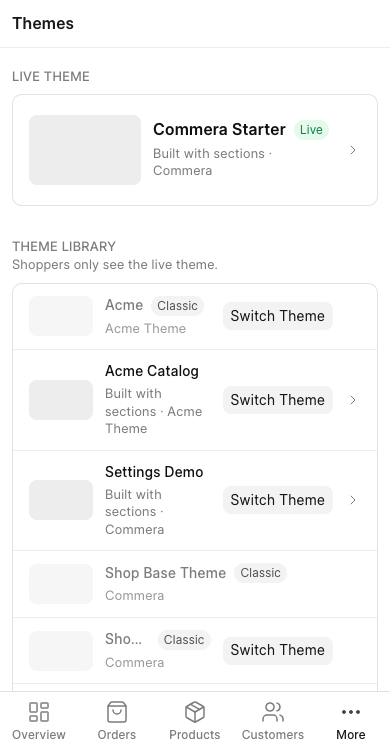
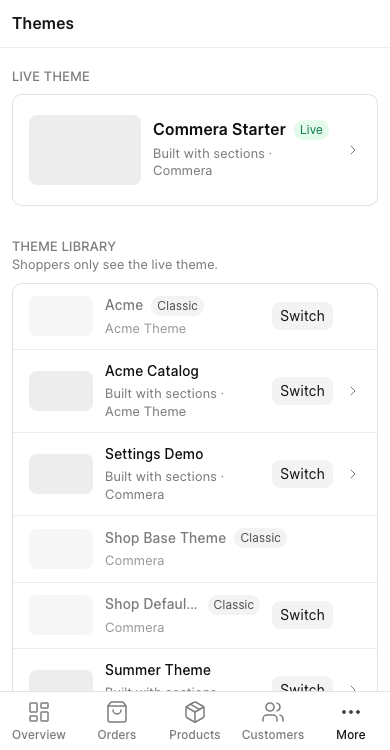
fix(themes): shorten switch theme label on phone

diff --git a/dashboard/src/components/storefront/ThemeRow.vue b/dashboard/src/components/storefront/ThemeRow.vue
@@ -55,11 +55,14 @@ const editorRoute = computed(() =>
     <Button
       v-if="!theme.live && !theme.is_base"
       class="relative z-10"
-      label="Switch Theme"
+      aria-label="Switch Theme"
       :loading="activating"
       :disabled="disabled"
       @click="$emit('activate', theme)"
-    />
+    >
+      <span class="sm:hidden">Switch</span>
+      <span class="hidden sm:inline">Switch Theme</span>
+    </Button>
     <span
       class="lucide-chevron-right size-4 shrink-0 text-ink-gray-5"
       :class="{ invisible: !editorRoute }"
